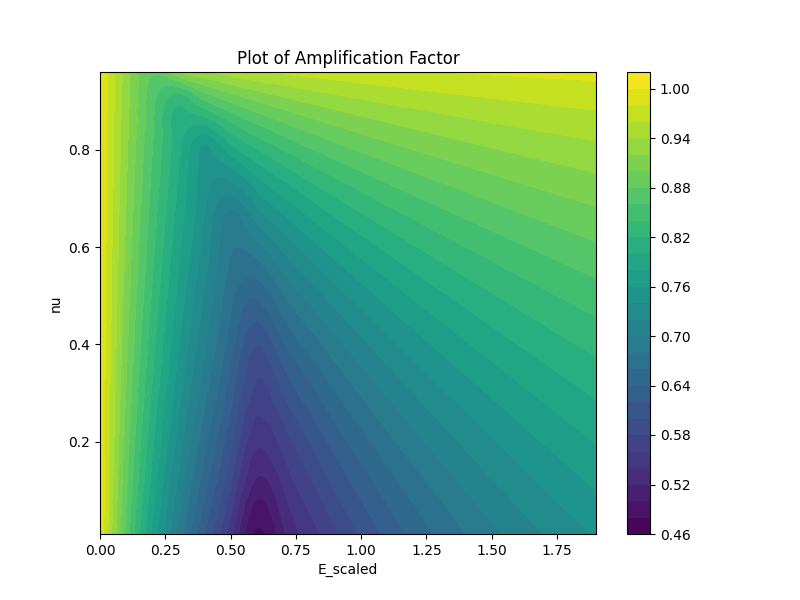
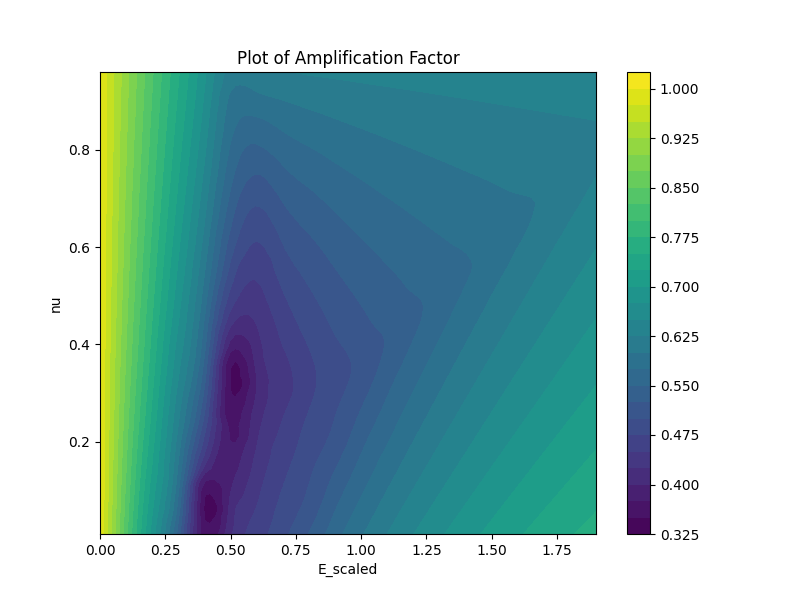
new plot of differences of smoothing factors

diff --git a/numerical_experiments/error_modes/smoothing_factor_all.py b/numerical_experiments/error_modes/smoothing_factor_all.py
@@ -106,7 +106,7 @@ M_eq[5,0] = theta
 M_eq[6,1] = theta
 
 #for relaxation
-gamma = 1.#0.8
+gamma = 0.8
 
 
 L_mat = gamma*(M_inv*D*M_eq*M + M_inv*(I-D)*M)
@@ -120,7 +120,8 @@ L_mat += (1-gamma)*I
 
 outer_iterations = 20
 inner_iterations = 20
-results = list()
+data_amplification = list()
+data_difference = list()
 
 d_nu = 1/outer_iterations
 d_E = 2/outer_iterations
@@ -133,6 +134,7 @@ for k in range(outer_iterations):
         print("E: {}".format(E))
         #cycle through all error modes
         smoothing_factors = list()
+        spectral_radii = list()
         phi_y_val = -np.pi
         for i in range(inner_iterations):
             dx = 1
@@ -143,6 +145,7 @@ for k in range(outer_iterations):
                 L_evaluated = L_mat.subs({mu: mu_val, K: K_val, phi_x: phi_x_val, phi_y: phi_y_val})
                 eigenvalues = np.linalg.eig(np.array(L_evaluated, dtype=np.complex128)).eigenvalues
                 spectral_radius = max(np.abs(ev) for ev in eigenvalues)
+                spectral_radii.append(spectral_radius)
                 if (np.abs(phi_x_val) >= 0.5*np.pi and np.abs(phi_y_val) >= 0.5*np.pi):
                     #print(spectral_radius)
                     #print("phi_x: {},  phi_y: {}, spectal radius: {}".format(phi_x_val, phi_y_val, spectral_radius))
@@ -151,18 +154,17 @@ for k in range(outer_iterations):
             phi_y_val += (2*np.pi)/inner_iterations
         
         
-        results.append((E, nu, np.max(smoothing_factors)))
+        data_amplification.append((E, nu, np.max(smoothing_factors)))
+        data_difference.append((E, nu, np.max(spectral_radii) - np.max(smoothing_factors)))
+
         print(np.max(smoothing_factors))
     print("{} % complete".format((k+1)*100/outer_iterations))
 
-x = np.array([float(item[0]) for item in results])
-y = np.array([float(item[1]) for item in results])
-z = np.array([float(item[2]) for item in results])
 
-print(results)
-
-
-
+#----------------------Plot amplification factors-------------------------
+x = np.array([float(item[0]) for item in data_amplification])
+y = np.array([float(item[1]) for item in data_amplification])
+z = np.array([float(item[2]) for item in data_amplification])
 
 # Create a grid of points
 x_grid, y_grid = np.meshgrid(np.linspace(x.min(), x.max(), 100),
@@ -187,3 +189,34 @@ plt.title('Plot of Amplification Factor')
 
 # Show the plot
 plt.savefig('amplification_factors.png')
+
+
+#----------------------------Plot difference to non-multigrid smoothing------------------
+
+x = np.array([float(item[0]) for item in data_difference])
+y = np.array([float(item[1]) for item in data_difference])
+z = np.array([float(item[2]) for item in data_difference])
+
+# Create a grid of points
+x_grid, y_grid = np.meshgrid(np.linspace(x.min(), x.max(), 100),
+                            np.linspace(y.min(), y.max(), 100))
+
+# Interpolate the scattered data onto the grid
+z_grid = griddata((x, y), z, (x_grid, y_grid), method='cubic')
+
+# Create a 2D contour plot
+fig, ax = plt.subplots(figsize=(8, 6))
+contour = ax.contourf(x_grid, y_grid, z_grid, levels=30, cmap='viridis')
+
+
+
+# Add color bar to the plot
+plt.colorbar(contour)
+
+# Set labels
+ax.set_xlabel('E_scaled')
+ax.set_ylabel('nu')
+plt.title('Plot of Difference')
+
+# Show the plot
+plt.savefig('difference.png')
